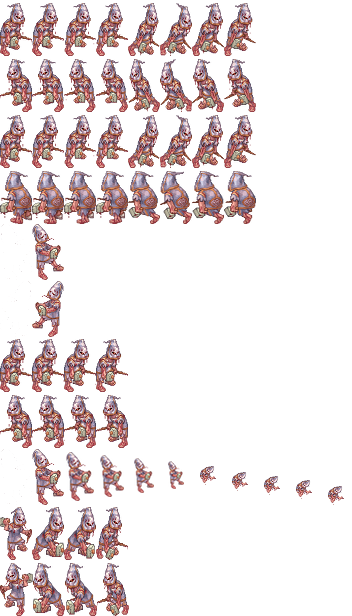
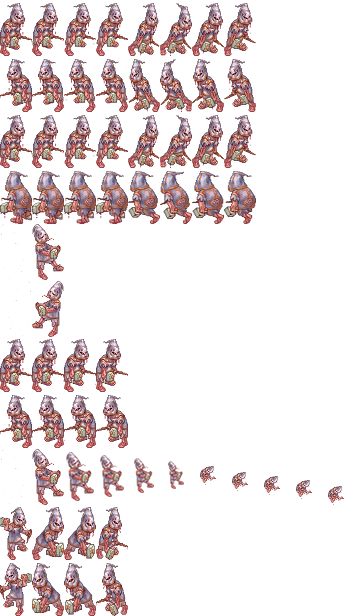
Melee hero/mob animation updated
Corrected hero attack direction animation. Mob attack animation now plays (still needs work). Mob sprite sheet updated

Changed region(s): [[0.0, 0.8945, 0.375, 1.0]]

diff --git a/src/Project2/Hero.java b/src/Project2/Hero.java
@@ -92,7 +92,7 @@ public class Hero extends BasicBeing{
         this.hitAnimRt = new Animation(walkingSheet, 0,4,1,4,true,100,true);
         this.hitAnimLt = new Animation(walkingSheet, 0,5,1,5,true,100,true);
         this.idleAnimRt = new Animation(walkingSheet, 0,6,0,6,true,100,true);
-        idleAnimRt.setLooping(false);
+        idleAnimRt.setLooping(true);
         this.idleAnimLt = new Animation(walkingSheet, 0,7,0,7,true,100,true);
         idleAnimLt.setLooping(true);
         this.deathAnim = new Animation(walkingSheet, 0,8,0,8,true,100,true);
@@ -120,8 +120,10 @@ public class Hero extends BasicBeing{
         deathAnim.setLooping(true);
         //  Attack and hit anim are the same except he shoots things when attacking.
         //this.attackAnim = new Animation(walking, 0,5,1,5,true,100,true);
-        this.attackAnimLt = new Animation(walking, 0,9,3,9, true, 100, true);
-        this.attackAnimRt = new Animation(walking, 0,10,3,10, true, 100, true);
+        this.attackAnimRt = new Animation(walking, 0,9,3,9, true, 100, true);
+        attackAnimRt.setLooping(true);
+        this.attackAnimLt = new Animation(walking, 0,10,3,10, true, 100, true);
+        attackAnimLt.setLooping(true);
 //        set bounding box for being based on animation
         ConvexPolygon beingBoundBox = new ConvexPolygon((float)this.walkLeftAnim.getWidth(),(float)this.walkLeftAnim.getHeight());
         this.addShape(beingBoundBox);

diff --git a/src/Project2/TestGameServer.java b/src/Project2/TestGameServer.java
@@ -597,11 +597,12 @@ public class TestGameServer {
                         command = Pathfinding.getPath((int) mobX, (int) mobY);
                         // if mob is melee or if mob is greater than 3 tiles away, set it's path
                         if (!Mobs.get(i).isRanged() || (!Pathfinding.rangedRange(playerPosition, cheesyMobs))) {
-                            Mobs.get(i).setCommand(getCommand(command));
+                            if (Pathfinding.meleeRange(playerPosition, cheesyMobs)){Mobs.get(i).setCommand(InputCommands.attack);}
+                            else Mobs.get(i).setCommand(getCommand(command));
                         } else {
                             // if mob is ranged and 3 or fewer tiles away, set to idle (so it stops and attacks)
                             // get direction mob has to face to hit player
-                            Mobs.get(i).setCommand(idle);
+                            Mobs.get(i).setCommand(InputCommands.attack);
                             isIdle = true;
                         }
                     }

diff --git a/src/Project2/Pathfinding.java b/src/Project2/Pathfinding.java
@@ -37,6 +37,19 @@ public class Pathfinding {
         return false;
     }
 
+    public static boolean meleeRange(Vector player, Vector mob){
+        float playerXMin =  player.getX()-1;
+        float playerYMin = player.getY()-1;
+        float playerXMax = player.getX()+1;
+        float playerYMax = player.getY()+1;
+
+        if (mob.getX() >= playerXMin && mob.getX() <= playerXMax &&
+                mob.getY() >= playerYMin && mob.getY() <= playerYMax)
+            return true;
+
+        return false;
+    }
+
     public static void Dijkstra(Map tiles, Vector playerPosition){
         initialize(playerPosition.getX(), playerPosition.getY() );
         makeGraphCopy(tiles, playerPosition.getX(), playerPosition.getY());
